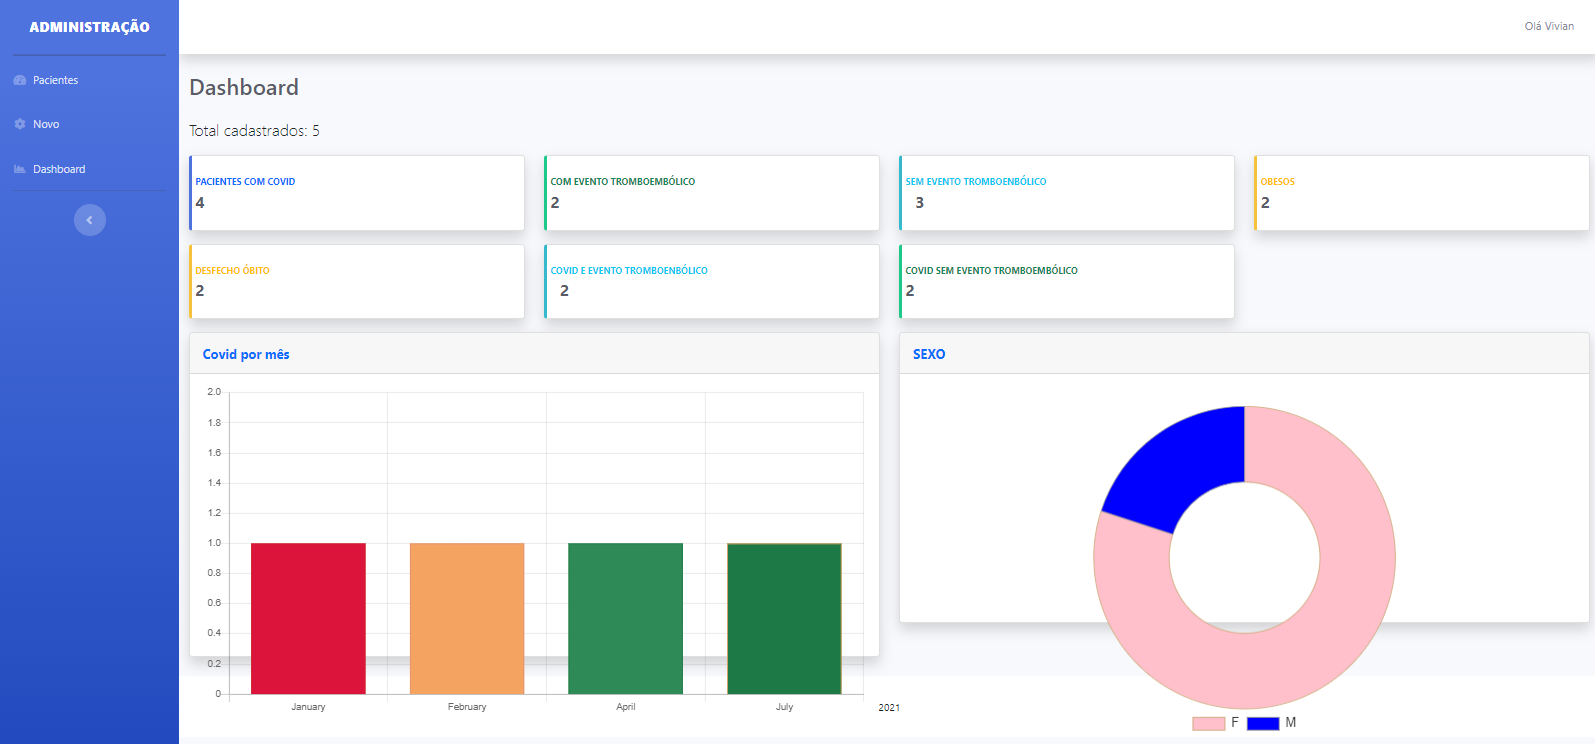
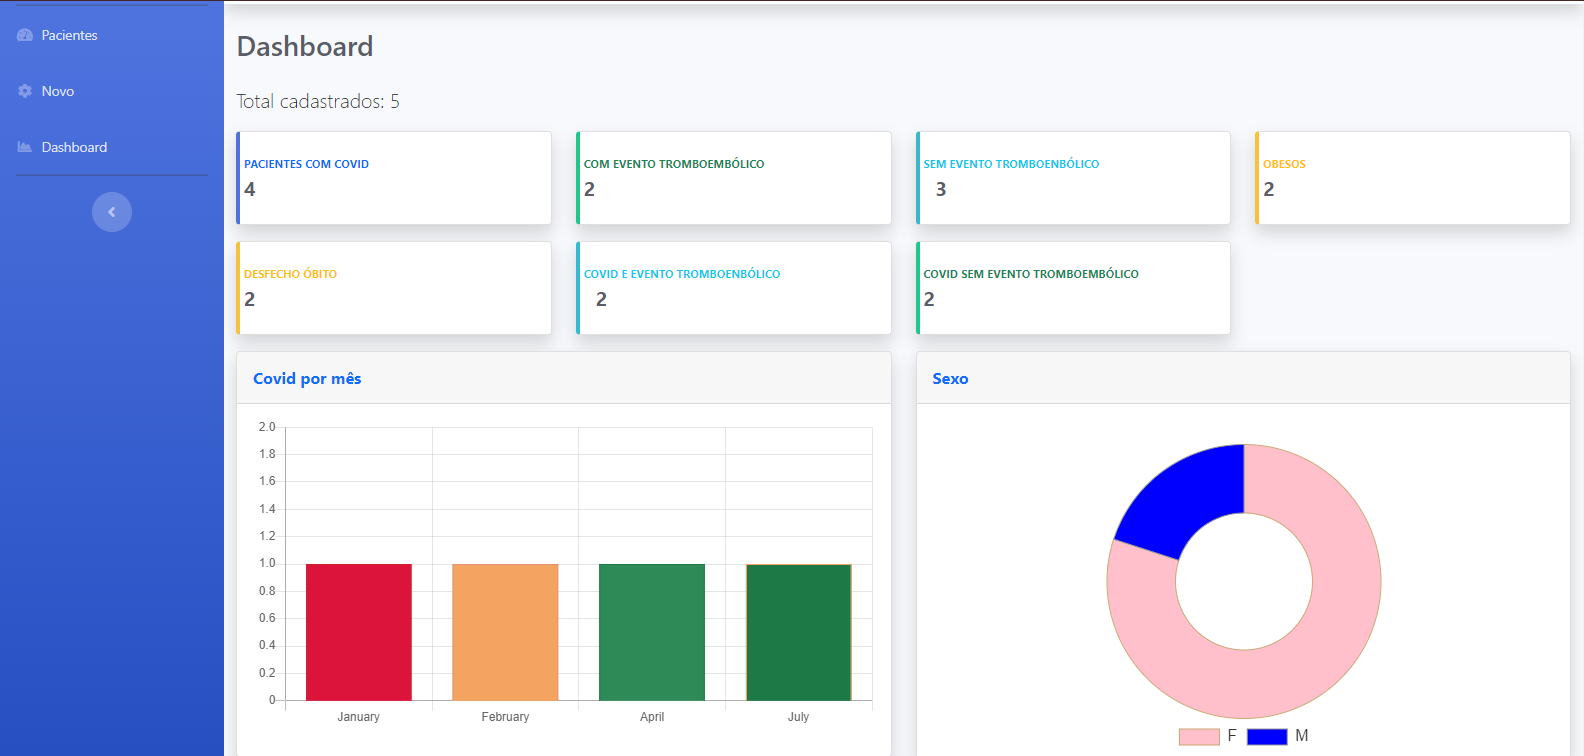
print dashaboard

diff --git a/application/logs/log-2021-11-04.php b/application/logs/log-2021-11-04.php
@@ -430,3 +430,243 @@ INFO - 2021-11-04 03:08:54 --> File loaded: C:\xampp\htdocs\form-covid\applicati
 INFO - 2021-11-04 03:08:54 --> File loaded: C:\xampp\htdocs\form-covid\application\views\/includes/template.php
 INFO - 2021-11-04 03:08:54 --> Final output sent to browser
 DEBUG - 2021-11-04 03:08:54 --> Total execution time: 1.9994
+INFO - 2021-11-04 03:20:45 --> Config Class Initialized
+INFO - 2021-11-04 03:20:45 --> Hooks Class Initialized
+DEBUG - 2021-11-04 03:20:45 --> UTF-8 Support Enabled
+INFO - 2021-11-04 03:20:45 --> Utf8 Class Initialized
+INFO - 2021-11-04 03:20:45 --> URI Class Initialized
+INFO - 2021-11-04 03:20:45 --> Router Class Initialized
+INFO - 2021-11-04 03:20:45 --> Output Class Initialized
+INFO - 2021-11-04 03:20:45 --> Security Class Initialized
+DEBUG - 2021-11-04 03:20:45 --> Global POST, GET and COOKIE data sanitized
+INFO - 2021-11-04 03:20:45 --> Input Class Initialized
+INFO - 2021-11-04 03:20:45 --> Language Class Initialized
+INFO - 2021-11-04 03:20:45 --> Loader Class Initialized
+INFO - 2021-11-04 03:20:45 --> Helper loaded: url_helper
+INFO - 2021-11-04 03:20:45 --> Helper loaded: form_helper
+INFO - 2021-11-04 03:20:45 --> Helper loaded: html_helper
+INFO - 2021-11-04 03:20:45 --> Helper loaded: sessao_helper
+INFO - 2021-11-04 03:20:45 --> Database Driver Class Initialized
+INFO - 2021-11-04 03:20:47 --> Session: Class initialized using 'database' driver.
+INFO - 2021-11-04 03:20:47 --> Parser Class Initialized
+INFO - 2021-11-04 03:20:47 --> Form Validation Class Initialized
+INFO - 2021-11-04 03:20:47 --> Migrations Class Initialized
+INFO - 2021-11-04 03:20:47 --> Language file loaded: language/portuguese-brazilian/migration_lang.php
+INFO - 2021-11-04 03:20:47 --> Database Forge Class Initialized
+INFO - 2021-11-04 03:20:47 --> Controller Class Initialized
+INFO - 2021-11-04 03:20:47 --> Model "Vivian_model" initialized
+INFO - 2021-11-04 03:20:47 --> Language file loaded: language/portuguese-brazilian/pagination_lang.php
+INFO - 2021-11-04 03:20:47 --> Pagination Class Initialized
+INFO - 2021-11-04 03:20:47 --> Config Class Initialized
+INFO - 2021-11-04 03:20:47 --> Hooks Class Initialized
+DEBUG - 2021-11-04 03:20:47 --> UTF-8 Support Enabled
+INFO - 2021-11-04 03:20:47 --> Utf8 Class Initialized
+INFO - 2021-11-04 03:20:47 --> URI Class Initialized
+DEBUG - 2021-11-04 03:20:47 --> No URI present. Default controller set.
+INFO - 2021-11-04 03:20:47 --> Router Class Initialized
+INFO - 2021-11-04 03:20:47 --> Output Class Initialized
+INFO - 2021-11-04 03:20:47 --> Security Class Initialized
+DEBUG - 2021-11-04 03:20:47 --> Global POST, GET and COOKIE data sanitized
+INFO - 2021-11-04 03:20:47 --> Input Class Initialized
+INFO - 2021-11-04 03:20:47 --> Language Class Initialized
+INFO - 2021-11-04 03:20:47 --> Loader Class Initialized
+INFO - 2021-11-04 03:20:47 --> Helper loaded: url_helper
+INFO - 2021-11-04 03:20:47 --> Helper loaded: form_helper
+INFO - 2021-11-04 03:20:47 --> Helper loaded: html_helper
+INFO - 2021-11-04 03:20:47 --> Helper loaded: sessao_helper
+INFO - 2021-11-04 03:20:47 --> Database Driver Class Initialized
+INFO - 2021-11-04 03:20:49 --> Session: Class initialized using 'database' driver.
+INFO - 2021-11-04 03:20:49 --> Parser Class Initialized
+INFO - 2021-11-04 03:20:49 --> Form Validation Class Initialized
+INFO - 2021-11-04 03:20:49 --> Migrations Class Initialized
+INFO - 2021-11-04 03:20:49 --> Language file loaded: language/portuguese-brazilian/migration_lang.php
+INFO - 2021-11-04 03:20:49 --> Database Forge Class Initialized
+INFO - 2021-11-04 03:20:49 --> Controller Class Initialized
+INFO - 2021-11-04 03:20:49 --> File loaded: C:\xampp\htdocs\form-covid\application\views\/vivian/login.php
+INFO - 2021-11-04 03:20:49 --> Final output sent to browser
+DEBUG - 2021-11-04 03:20:49 --> Total execution time: 1.4812
+INFO - 2021-11-04 03:20:57 --> Config Class Initialized
+INFO - 2021-11-04 03:20:57 --> Hooks Class Initialized
+DEBUG - 2021-11-04 03:20:57 --> UTF-8 Support Enabled
+INFO - 2021-11-04 03:20:57 --> Utf8 Class Initialized
+INFO - 2021-11-04 03:20:57 --> URI Class Initialized
+INFO - 2021-11-04 03:20:57 --> Router Class Initialized
+INFO - 2021-11-04 03:20:57 --> Output Class Initialized
+INFO - 2021-11-04 03:20:57 --> Security Class Initialized
+DEBUG - 2021-11-04 03:20:57 --> Global POST, GET and COOKIE data sanitized
+INFO - 2021-11-04 03:20:57 --> Input Class Initialized
+INFO - 2021-11-04 03:20:57 --> Language Class Initialized
+INFO - 2021-11-04 03:20:57 --> Loader Class Initialized
+INFO - 2021-11-04 03:20:57 --> Helper loaded: url_helper
+INFO - 2021-11-04 03:20:57 --> Helper loaded: form_helper
+INFO - 2021-11-04 03:20:57 --> Helper loaded: html_helper
+INFO - 2021-11-04 03:20:57 --> Helper loaded: sessao_helper
+INFO - 2021-11-04 03:20:57 --> Database Driver Class Initialized
+INFO - 2021-11-04 03:20:59 --> Session: Class initialized using 'database' driver.
+INFO - 2021-11-04 03:20:59 --> Parser Class Initialized
+INFO - 2021-11-04 03:20:59 --> Form Validation Class Initialized
+INFO - 2021-11-04 03:20:59 --> Migrations Class Initialized
+INFO - 2021-11-04 03:20:59 --> Language file loaded: language/portuguese-brazilian/migration_lang.php
+INFO - 2021-11-04 03:20:59 --> Database Forge Class Initialized
+INFO - 2021-11-04 03:20:59 --> Controller Class Initialized
+INFO - 2021-11-04 03:20:59 --> Model "Vivian_model" initialized
+INFO - 2021-11-04 03:20:59 --> Language file loaded: language/portuguese-brazilian/pagination_lang.php
+INFO - 2021-11-04 03:20:59 --> Pagination Class Initialized
+INFO - 2021-11-04 03:20:59 --> Language file loaded: language/portuguese-brazilian/form_validation_lang.php
+INFO - 2021-11-04 03:21:00 --> Config Class Initialized
+INFO - 2021-11-04 03:21:00 --> Hooks Class Initialized
+DEBUG - 2021-11-04 03:21:00 --> UTF-8 Support Enabled
+INFO - 2021-11-04 03:21:00 --> Utf8 Class Initialized
+INFO - 2021-11-04 03:21:00 --> URI Class Initialized
+INFO - 2021-11-04 03:21:00 --> Router Class Initialized
+INFO - 2021-11-04 03:21:00 --> Output Class Initialized
+INFO - 2021-11-04 03:21:00 --> Security Class Initialized
+DEBUG - 2021-11-04 03:21:00 --> Global POST, GET and COOKIE data sanitized
+INFO - 2021-11-04 03:21:00 --> Input Class Initialized
+INFO - 2021-11-04 03:21:00 --> Language Class Initialized
+INFO - 2021-11-04 03:21:00 --> Loader Class Initialized
+INFO - 2021-11-04 03:21:00 --> Helper loaded: url_helper
+INFO - 2021-11-04 03:21:00 --> Helper loaded: form_helper
+INFO - 2021-11-04 03:21:00 --> Helper loaded: html_helper
+INFO - 2021-11-04 03:21:00 --> Helper loaded: sessao_helper
+INFO - 2021-11-04 03:21:00 --> Database Driver Class Initialized
+INFO - 2021-11-04 03:21:01 --> Session: Class initialized using 'database' driver.
+INFO - 2021-11-04 03:21:01 --> Parser Class Initialized
+INFO - 2021-11-04 03:21:01 --> Form Validation Class Initialized
+INFO - 2021-11-04 03:21:01 --> Migrations Class Initialized
+INFO - 2021-11-04 03:21:01 --> Language file loaded: language/portuguese-brazilian/migration_lang.php
+INFO - 2021-11-04 03:21:01 --> Database Forge Class Initialized
+INFO - 2021-11-04 03:21:01 --> Controller Class Initialized
+INFO - 2021-11-04 03:21:01 --> Model "Vivian_model" initialized
+INFO - 2021-11-04 03:21:01 --> Language file loaded: language/portuguese-brazilian/pagination_lang.php
+INFO - 2021-11-04 03:21:01 --> Pagination Class Initialized
+INFO - 2021-11-04 03:21:01 --> File loaded: C:\xampp\htdocs\form-covid\application\views\/administracao/paginacao.php
+ERROR - 2021-11-04 03:21:01 --> Severity: Warning --> Undefined variable $chart_data C:\xampp\htdocs\form-covid\application\views\administracao\template.php 549
+ERROR - 2021-11-04 03:21:01 --> Severity: Warning --> Undefined variable $chart_line C:\xampp\htdocs\form-covid\application\views\administracao\template.php 607
+INFO - 2021-11-04 03:21:01 --> File loaded: C:\xampp\htdocs\form-covid\application\views\/administracao/template.php
+INFO - 2021-11-04 03:21:01 --> Final output sent to browser
+DEBUG - 2021-11-04 03:21:01 --> Total execution time: 1.8071
+INFO - 2021-11-04 03:21:04 --> Config Class Initialized
+INFO - 2021-11-04 03:21:04 --> Hooks Class Initialized
+DEBUG - 2021-11-04 03:21:04 --> UTF-8 Support Enabled
+INFO - 2021-11-04 03:21:04 --> Utf8 Class Initialized
+INFO - 2021-11-04 03:21:04 --> URI Class Initialized
+INFO - 2021-11-04 03:21:04 --> Router Class Initialized
+INFO - 2021-11-04 03:21:04 --> Output Class Initialized
+INFO - 2021-11-04 03:21:04 --> Security Class Initialized
+DEBUG - 2021-11-04 03:21:04 --> Global POST, GET and COOKIE data sanitized
+INFO - 2021-11-04 03:21:04 --> Input Class Initialized
+INFO - 2021-11-04 03:21:04 --> Language Class Initialized
+INFO - 2021-11-04 03:21:04 --> Loader Class Initialized
+INFO - 2021-11-04 03:21:04 --> Helper loaded: url_helper
+INFO - 2021-11-04 03:21:04 --> Helper loaded: form_helper
+INFO - 2021-11-04 03:21:04 --> Helper loaded: html_helper
+INFO - 2021-11-04 03:21:04 --> Helper loaded: sessao_helper
+INFO - 2021-11-04 03:21:04 --> Database Driver Class Initialized
+INFO - 2021-11-04 03:21:05 --> Session: Class initialized using 'database' driver.
+INFO - 2021-11-04 03:21:05 --> Parser Class Initialized
+INFO - 2021-11-04 03:21:05 --> Form Validation Class Initialized
+INFO - 2021-11-04 03:21:05 --> Migrations Class Initialized
+INFO - 2021-11-04 03:21:05 --> Language file loaded: language/portuguese-brazilian/migration_lang.php
+INFO - 2021-11-04 03:21:05 --> Database Forge Class Initialized
+INFO - 2021-11-04 03:21:05 --> Controller Class Initialized
+INFO - 2021-11-04 03:21:05 --> Model "Vivian_model" initialized
+INFO - 2021-11-04 03:21:05 --> Language file loaded: language/portuguese-brazilian/pagination_lang.php
+INFO - 2021-11-04 03:21:05 --> Pagination Class Initialized
+INFO - 2021-11-04 03:21:07 --> File loaded: C:\xampp\htdocs\form-covid\application\views\/administracao/dash.php
+INFO - 2021-11-04 03:21:07 --> File loaded: C:\xampp\htdocs\form-covid\application\views\/administracao/template.php
+INFO - 2021-11-04 03:21:07 --> Final output sent to browser
+DEBUG - 2021-11-04 03:21:07 --> Total execution time: 3.0074
+INFO - 2021-11-04 03:22:31 --> Config Class Initialized
+INFO - 2021-11-04 03:22:31 --> Hooks Class Initialized
+DEBUG - 2021-11-04 03:22:31 --> UTF-8 Support Enabled
+INFO - 2021-11-04 03:22:31 --> Utf8 Class Initialized
+INFO - 2021-11-04 03:22:31 --> URI Class Initialized
+INFO - 2021-11-04 03:22:31 --> Router Class Initialized
+INFO - 2021-11-04 03:22:31 --> Output Class Initialized
+INFO - 2021-11-04 03:22:31 --> Security Class Initialized
+DEBUG - 2021-11-04 03:22:31 --> Global POST, GET and COOKIE data sanitized
+INFO - 2021-11-04 03:22:31 --> Input Class Initialized
+INFO - 2021-11-04 03:22:31 --> Language Class Initialized
+INFO - 2021-11-04 03:22:31 --> Loader Class Initialized
+INFO - 2021-11-04 03:22:31 --> Helper loaded: url_helper
+INFO - 2021-11-04 03:22:31 --> Helper loaded: form_helper
+INFO - 2021-11-04 03:22:31 --> Helper loaded: html_helper
+INFO - 2021-11-04 03:22:31 --> Helper loaded: sessao_helper
+INFO - 2021-11-04 03:22:31 --> Database Driver Class Initialized
+INFO - 2021-11-04 03:22:32 --> Session: Class initialized using 'database' driver.
+INFO - 2021-11-04 03:22:32 --> Parser Class Initialized
+INFO - 2021-11-04 03:22:32 --> Form Validation Class Initialized
+INFO - 2021-11-04 03:22:32 --> Migrations Class Initialized
+INFO - 2021-11-04 03:22:32 --> Language file loaded: language/portuguese-brazilian/migration_lang.php
+INFO - 2021-11-04 03:22:32 --> Database Forge Class Initialized
+INFO - 2021-11-04 03:22:32 --> Controller Class Initialized
+INFO - 2021-11-04 03:22:32 --> Model "Vivian_model" initialized
+INFO - 2021-11-04 03:22:32 --> Language file loaded: language/portuguese-brazilian/pagination_lang.php
+INFO - 2021-11-04 03:22:32 --> Pagination Class Initialized
+INFO - 2021-11-04 03:22:34 --> File loaded: C:\xampp\htdocs\form-covid\application\views\/administracao/dash.php
+INFO - 2021-11-04 03:22:34 --> File loaded: C:\xampp\htdocs\form-covid\application\views\/administracao/template.php
+INFO - 2021-11-04 03:22:34 --> Final output sent to browser
+DEBUG - 2021-11-04 03:22:34 --> Total execution time: 3.0053
+INFO - 2021-11-04 03:22:46 --> Config Class Initialized
+INFO - 2021-11-04 03:22:46 --> Hooks Class Initialized
+DEBUG - 2021-11-04 03:22:46 --> UTF-8 Support Enabled
+INFO - 2021-11-04 03:22:46 --> Utf8 Class Initialized
+INFO - 2021-11-04 03:22:46 --> URI Class Initialized
+INFO - 2021-11-04 03:22:46 --> Router Class Initialized
+INFO - 2021-11-04 03:22:46 --> Output Class Initialized
+INFO - 2021-11-04 03:22:46 --> Security Class Initialized
+DEBUG - 2021-11-04 03:22:46 --> Global POST, GET and COOKIE data sanitized
+INFO - 2021-11-04 03:22:46 --> Input Class Initialized
+INFO - 2021-11-04 03:22:46 --> Language Class Initialized
+INFO - 2021-11-04 03:22:46 --> Loader Class Initialized
+INFO - 2021-11-04 03:22:46 --> Helper loaded: url_helper
+INFO - 2021-11-04 03:22:46 --> Helper loaded: form_helper
+INFO - 2021-11-04 03:22:46 --> Helper loaded: html_helper
+INFO - 2021-11-04 03:22:46 --> Helper loaded: sessao_helper
+INFO - 2021-11-04 03:22:46 --> Database Driver Class Initialized
+INFO - 2021-11-04 03:22:48 --> Session: Class initialized using 'database' driver.
+INFO - 2021-11-04 03:22:48 --> Parser Class Initialized
+INFO - 2021-11-04 03:22:48 --> Form Validation Class Initialized
+INFO - 2021-11-04 03:22:48 --> Migrations Class Initialized
+INFO - 2021-11-04 03:22:48 --> Language file loaded: language/portuguese-brazilian/migration_lang.php
+INFO - 2021-11-04 03:22:48 --> Database Forge Class Initialized
+INFO - 2021-11-04 03:22:48 --> Controller Class Initialized
+INFO - 2021-11-04 03:22:48 --> Model "Vivian_model" initialized
+INFO - 2021-11-04 03:22:48 --> Language file loaded: language/portuguese-brazilian/pagination_lang.php
+INFO - 2021-11-04 03:22:48 --> Pagination Class Initialized
+INFO - 2021-11-04 03:22:49 --> File loaded: C:\xampp\htdocs\form-covid\application\views\/administracao/dash.php
+INFO - 2021-11-04 03:22:49 --> File loaded: C:\xampp\htdocs\form-covid\application\views\/administracao/template.php
+INFO - 2021-11-04 03:22:49 --> Final output sent to browser
+DEBUG - 2021-11-04 03:22:49 --> Total execution time: 3.0593
+INFO - 2021-11-04 03:24:24 --> Config Class Initialized
+INFO - 2021-11-04 03:24:24 --> Hooks Class Initialized
+DEBUG - 2021-11-04 03:24:24 --> UTF-8 Support Enabled
+INFO - 2021-11-04 03:24:24 --> Utf8 Class Initialized
+INFO - 2021-11-04 03:24:24 --> URI Class Initialized
+INFO - 2021-11-04 03:24:24 --> Router Class Initialized
+INFO - 2021-11-04 03:24:24 --> Output Class Initialized
+INFO - 2021-11-04 03:24:24 --> Security Class Initialized
+DEBUG - 2021-11-04 03:24:24 --> Global POST, GET and COOKIE data sanitized
+INFO - 2021-11-04 03:24:24 --> Input Class Initialized
+INFO - 2021-11-04 03:24:24 --> Language Class Initialized
+INFO - 2021-11-04 03:24:24 --> Loader Class Initialized
+INFO - 2021-11-04 03:24:24 --> Helper loaded: url_helper
+INFO - 2021-11-04 03:24:24 --> Helper loaded: form_helper
+INFO - 2021-11-04 03:24:24 --> Helper loaded: html_helper
+INFO - 2021-11-04 03:24:24 --> Helper loaded: sessao_helper
+INFO - 2021-11-04 03:24:24 --> Database Driver Class Initialized
+INFO - 2021-11-04 03:24:25 --> Session: Class initialized using 'database' driver.
+INFO - 2021-11-04 03:24:25 --> Parser Class Initialized
+INFO - 2021-11-04 03:24:25 --> Form Validation Class Initialized
+INFO - 2021-11-04 03:24:25 --> Migrations Class Initialized
+INFO - 2021-11-04 03:24:25 --> Language file loaded: language/portuguese-brazilian/migration_lang.php
+INFO - 2021-11-04 03:24:25 --> Database Forge Class Initialized
+INFO - 2021-11-04 03:24:25 --> Controller Class Initialized
+INFO - 2021-11-04 03:24:25 --> Model "Vivian_model" initialized
+INFO - 2021-11-04 03:24:25 --> Language file loaded: language/portuguese-brazilian/pagination_lang.php
+INFO - 2021-11-04 03:24:25 --> Pagination Class Initialized
+INFO - 2021-11-04 03:24:27 --> File loaded: C:\xampp\htdocs\form-covid\application\views\/administracao/dash.php
+INFO - 2021-11-04 03:24:27 --> File loaded: C:\xampp\htdocs\form-covid\application\views\/administracao/template.php
+INFO - 2021-11-04 03:24:27 --> Final output sent to browser
+DEBUG - 2021-11-04 03:24:27 --> Total execution time: 2.9706

diff --git a/application/views/administracao/dash.php b/application/views/administracao/dash.php
@@ -168,24 +168,16 @@
                                 <!--Card Header - Dropdown-->
                                 <div
                                     class="card-header py-3 d-flex flex-row align-items-center justify-content-between">
-                                    <h6 class="m-0 font-weight-bold text-primary">SEXO</h6>
+                                    <h6 class="m-0 font-weight-bold text-primary">Sexo</h6>
                                 </div>
                                 <!--Card Body-->
                                 <div class="card-body">
-                                    <div class="chart-pie pt-4 pb-2">
+                                    <div class="chart-pie pt-4">
                                         <canvas id="myPieChart"></canvas>
                                     </div>
-                                    <!--<div class="mt-4 text-center small">
-                                        <span class="mr-2">
-                                            <i class="fas fa-circle text-primary"></i> Direct
-                                        </span>
-                                        <span class="mr-2">
-                                            <i class="fas fa-circle text-success"></i> Social
-                                        </span>
-                                        <span class="mr-2">
-                                            <i class="fas fa-circle text-info"></i> Referral
-                                        </span>
-                                    </div>-->
+                                    <div class="mt-4 text-center small">
+                                        &nbsp
+                                    </div>
                                 </div>
                             </div>
                         </div>

diff --git a/application/config/config.php b/application/config/config.php
@@ -213,7 +213,7 @@ $config['directory_trigger'] = 'd';
 | your log files will fill up very fast.
 |
 */
-$config['log_threshold'] = 4;
+$config['log_threshold'] = 1;
 
 /*
 |--------------------------------------------------------------------------
